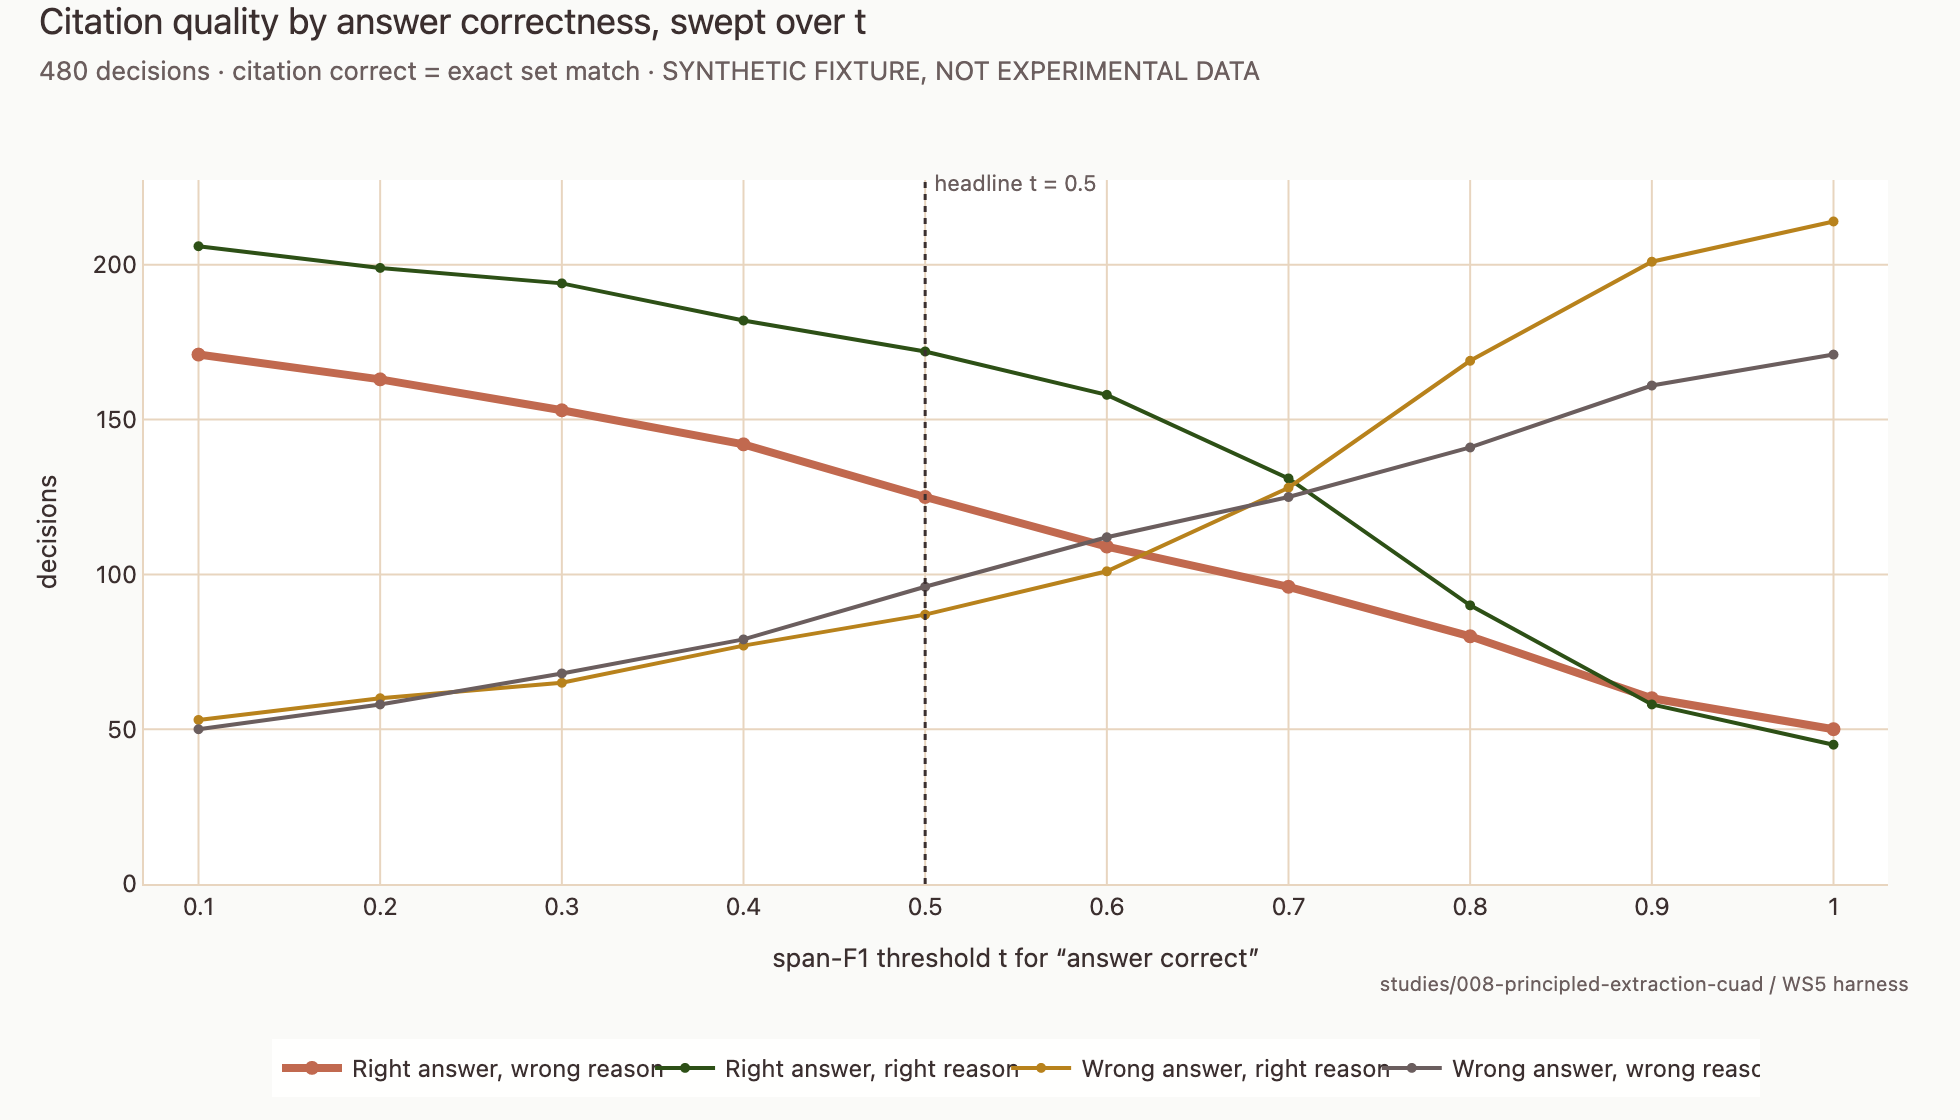
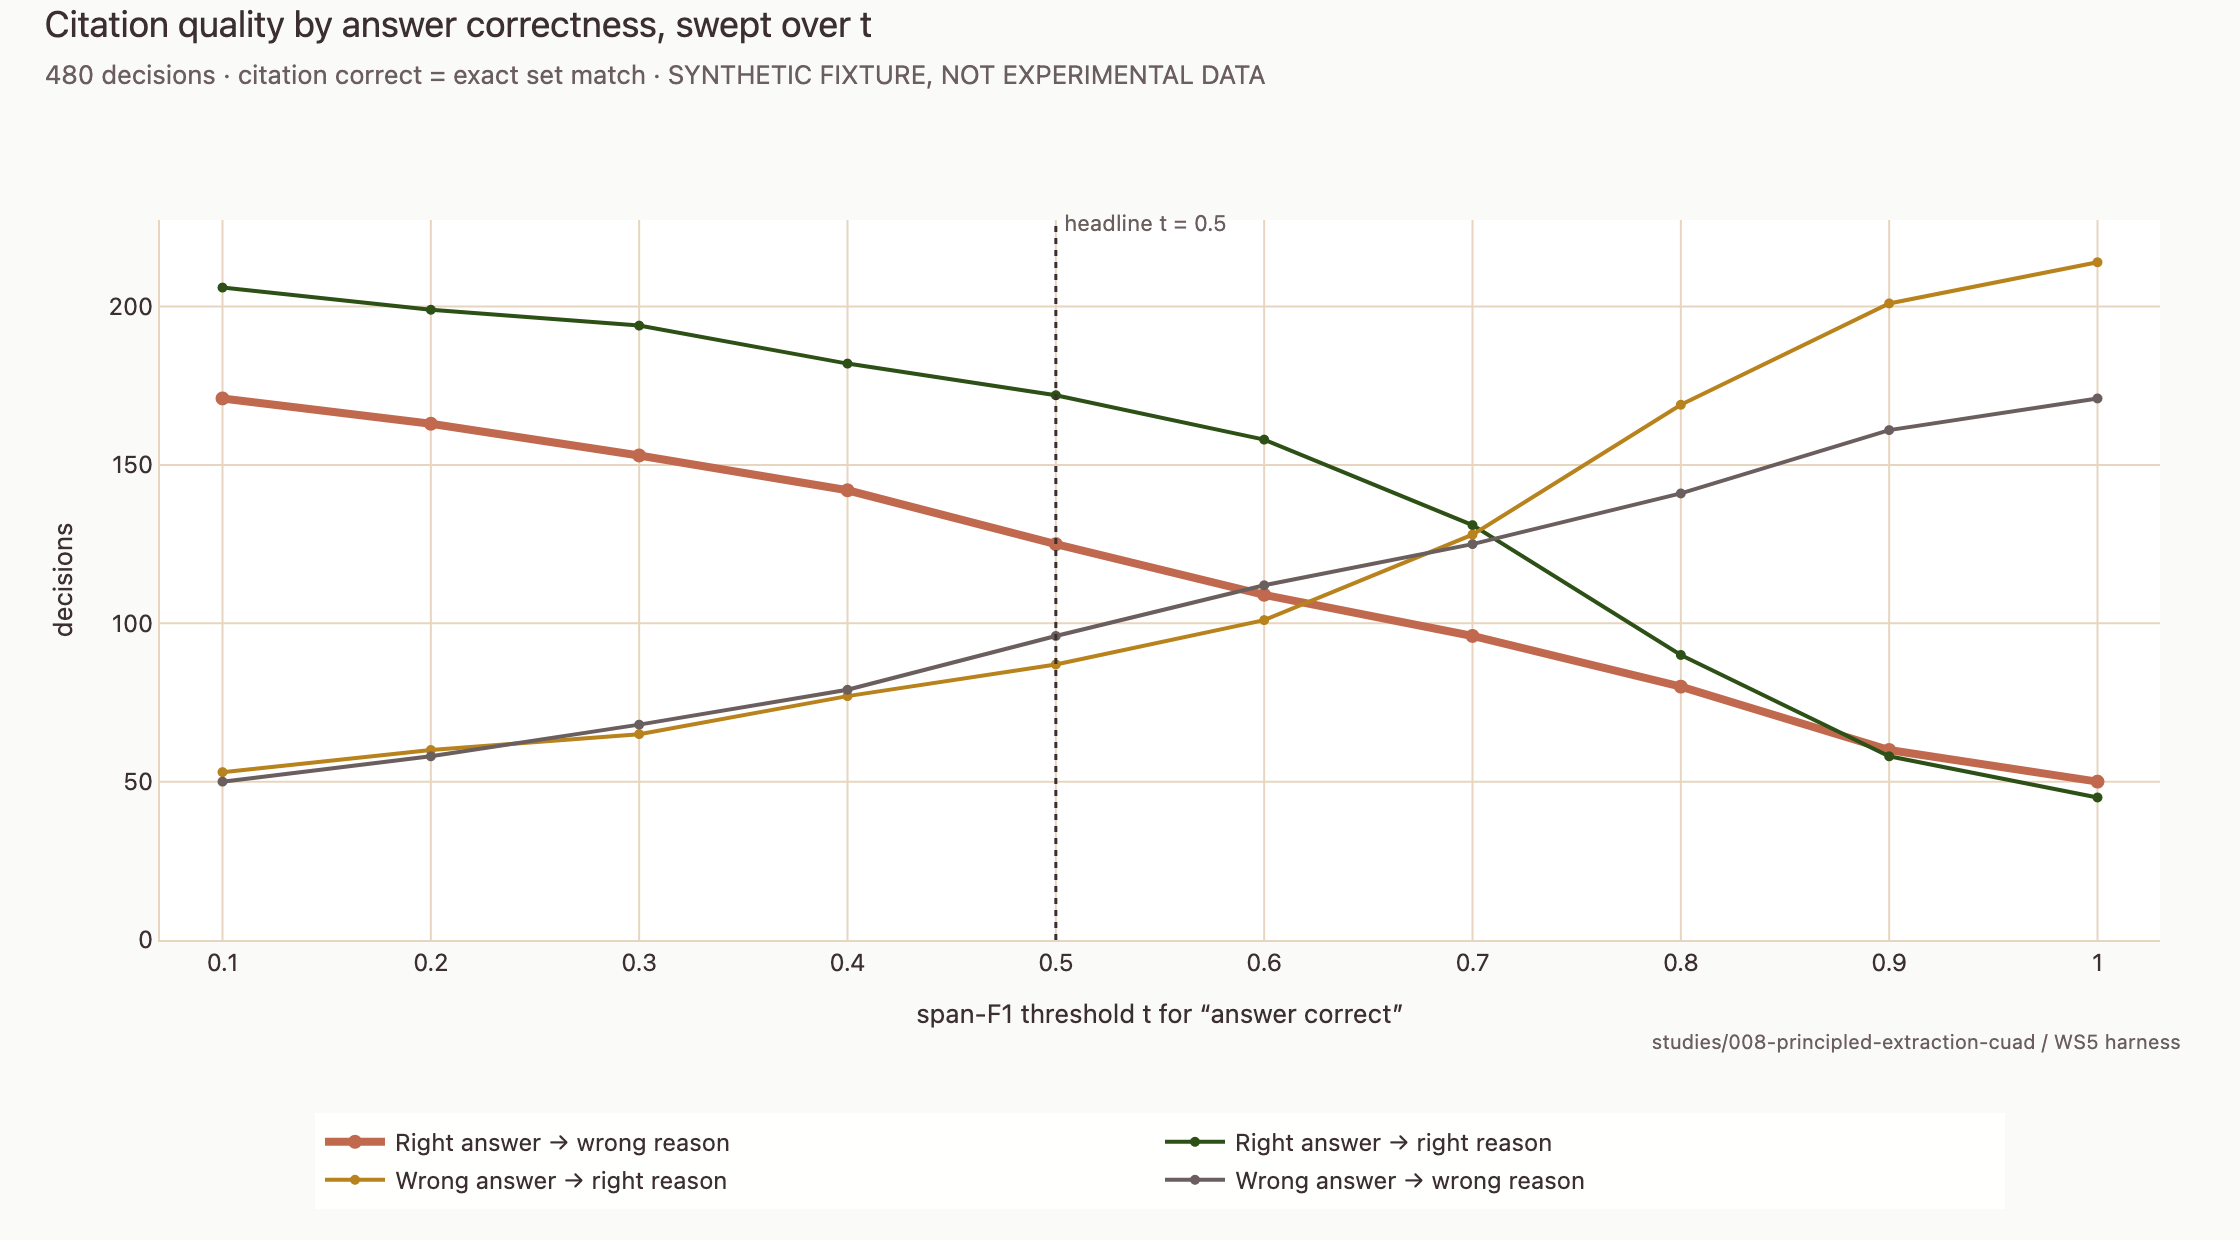
008: fix legend clipping in citation sweep figure

diff --git a/studies/008-principled-extraction-cuad/figures/citation_correctness_sweep.py b/studies/008-principled-extraction-cuad/figures/citation_correctness_sweep.py
@@ -16,10 +16,10 @@ HERE = Path(__file__).resolve().parent
 DEFAULT_SWEEP = HERE / "data" / "citation_sweep_fixture.json"
 
 CELLS = [
-    ("right_answer_wrong_citation", "Right answer, wrong reason", "terracotta", 4.0),
-    ("right_answer_right_citation", "Right answer, right reason", "forest_green", 2.0),
-    ("wrong_answer_right_citation", "Wrong answer, right reason", "mustard", 2.0),
-    ("wrong_answer_wrong_citation", "Wrong answer, wrong reason", "muted_text", 2.0),
+    ("right_answer_wrong_citation", "Right answer \u2192 wrong reason", "terracotta", 4.0),
+    ("right_answer_right_citation", "Right answer \u2192 right reason", "forest_green", 2.0),
+    ("wrong_answer_right_citation", "Wrong answer \u2192 right reason", "mustard", 2.0),
+    ("wrong_answer_wrong_citation", "Wrong answer \u2192 wrong reason", "muted_text", 2.0),
 ]
 
 ATTRIBUTION = "studies/008-principled-extraction-cuad / WS5 harness"
@@ -100,9 +100,18 @@ def build_curve_figure(sweep: dict, as_rate: bool = False) -> go.Figure:
         attribution=ATTRIBUTION,
     )
     fig.update_layout(
-        legend=dict(orientation="h", y=-0.22, x=0.5, xanchor="center"),
-        width=980,
-        height=560,
+        legend=dict(
+            orientation="h",
+            y=-0.24,
+            x=0.5,
+            xanchor="center",
+            font=dict(size=12),
+            entrywidthmode="fraction",
+            entrywidth=0.42,
+        ),
+        margin=dict(l=80, r=40, t=110, b=150),
+        width=1120,
+        height=620,
     )
     return fig
 
